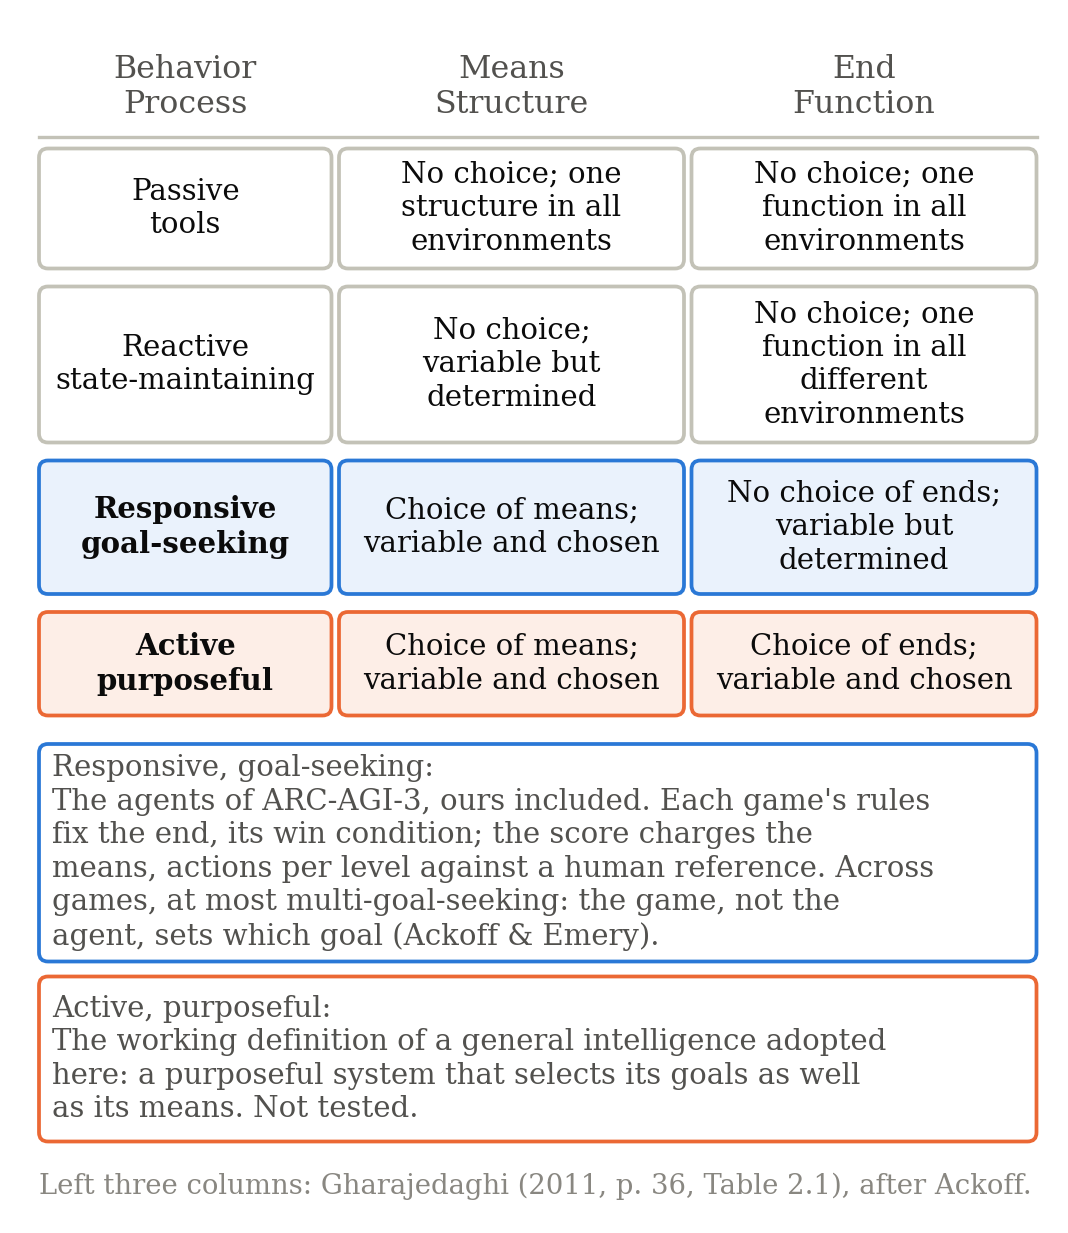
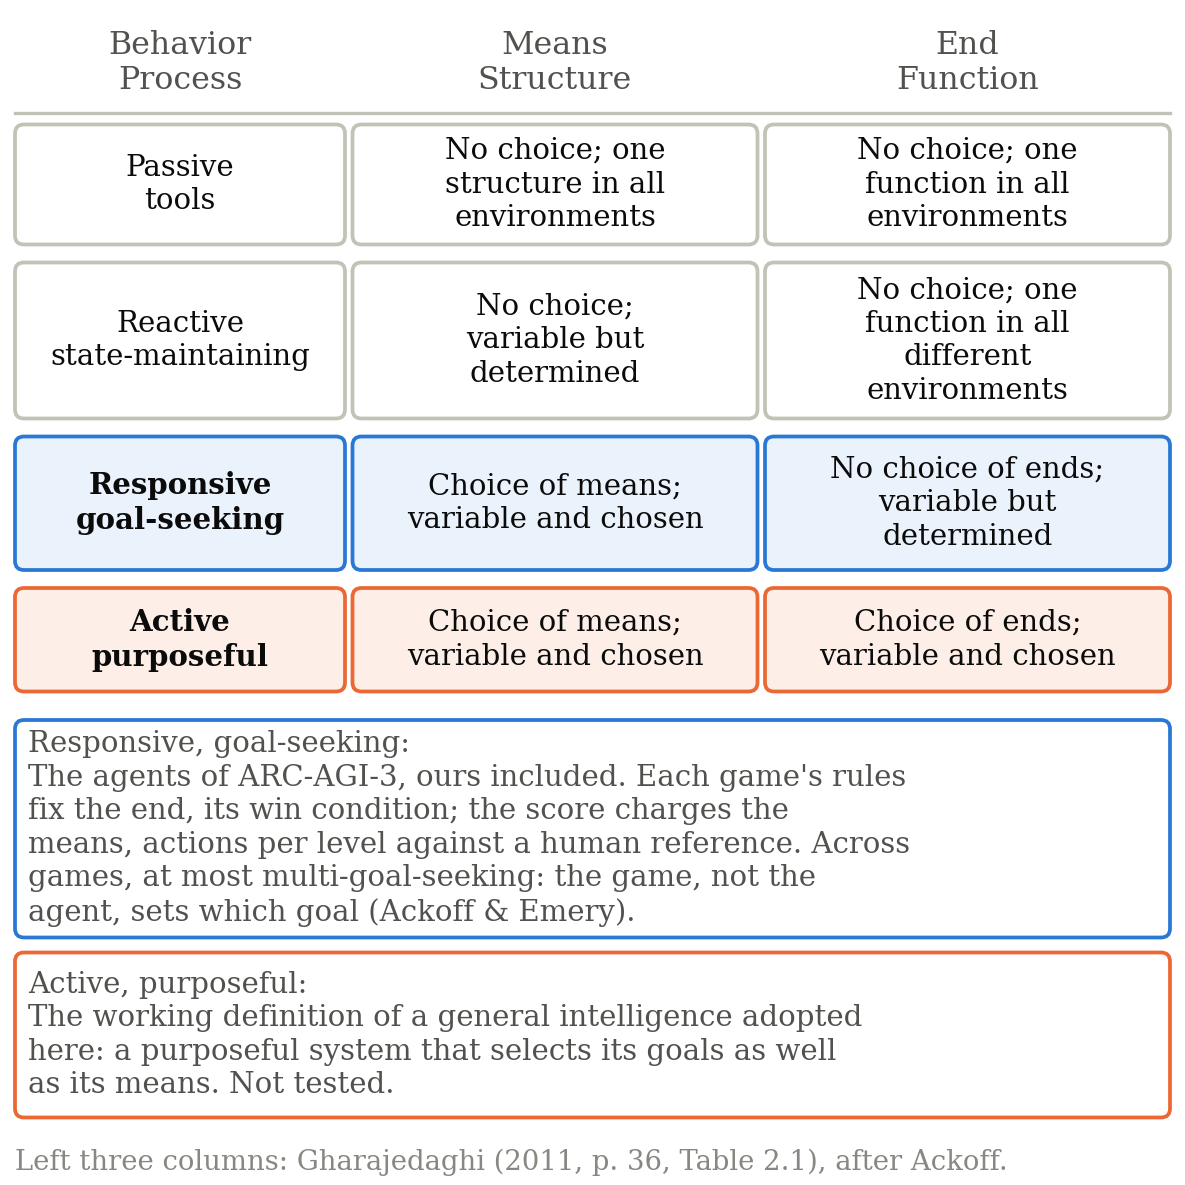
Project page and README: the three diagram images at one width and scale (the modes diagram laid out in rows); paper figures and gallery images unchanged

Changed region(s): [[0.0, 0.0312, 0.9888, 0.9992]]

diff --git a/figures/make_diagrams.py b/figures/make_diagrams.py
@@ -187,12 +187,12 @@ def canvas(w, h, xmax, ymax, x0=-0.1, y0=-0.1):
     return fig, ax
 
 
-def save_png(fig, name, tight):
+def save_png(fig, name, tight, dpi=200):
     assert not OVER, OVER
     if tight:
         fig.savefig(name, dpi=300, bbox_inches="tight", pad_inches=0.08, metadata={"Software": None})
     else:
-        fig.savefig(name, dpi=200, metadata={"Software": None})
+        fig.savefig(name, dpi=dpi, metadata={"Software": None})
     plt.close(fig)
 
 
@@ -270,26 +270,46 @@ def gallery_modes():
     save_png(fig, "gallery-diagram-2b-modes.png", tight=False)
 
 
+PAGE_W = 7.9   # data units (IN inches each): one canvas width for the three page images, so the column shows them at one scale
+
+
 def page_classification():
-    cols = [(0.0, 1.95), (2.0, 2.3), (4.35, 2.3)]
-    fig, ax = canvas(IN * 6.8, IN * 7.9, 6.8, 7.9)
-    y = classification_table(ax, cols, [0.86, 1.1, 0.95, 0.75], 7.0, NOTES_WIDE, below=(0.0, 6.65, [1.45, 1.1]))
+    cols = [(0.0, 2.2), (2.25, 2.7), (5.0, 2.7)]
+    fig, ax = canvas(IN * PAGE_W, IN * 7.9, PAGE_W, 7.9)
+    y = classification_table(ax, cols, [0.86, 1.1, 0.95, 0.75], 7.0, NOTES_WIDE, below=(0.0, 7.7, [1.45, 1.1]))
     ax.text(0, y - 0.35, SOURCE, fontsize=6.6, color=MUTED)
-    save_png(fig, "diagram-behavioral-classification.png", tight=True)
+    save_png(fig, "diagram-behavioral-classification.png", tight=False, dpi=300)
 
 
 def page_certificate():
-    fig, ax = canvas(IN * 7.7, IN * 7.3, 7.7, 7.3, y0=-0.1)
-    ax.text(0, 6.9, "A. No-effect certificate (Section 3.2)", fontsize=8.4, color=INK, va="center")
+    fig, ax = canvas(IN * PAGE_W, IN * 6.95, PAGE_W, 6.95, y0=0.55)
+    ax.text(0, 7.2, "A. No-effect certificate (Section 3.2)", fontsize=8.4, color=INK, va="center")
     panel_certificate(ax)
-    save_png(fig, "diagram-certificate.png", tight=True)
+    save_png(fig, "diagram-certificate.png", tight=False, dpi=300)
 
 
 def page_modes():
-    fig, ax = canvas(IN * 4.9, IN * 7.7, 4.9, 7.7, y0=-0.4)
-    ax.text(0, 7.15, "B. Where K acts (Sections 3.1 and 5)", fontsize=8.4, color=INK, va="center")
-    panel_modes(ax, x=0.0)
-    save_png(fig, "diagram-modes.png", tight=True)
+    """The three modes as rows: title and note on the left, the agent, K, and the game on the right."""
+    fig, ax = canvas(IN * PAGE_W, IN * 6.0, PAGE_W, 6.0)
+    ax.text(0, 5.65, "B. Where K acts (Sections 3.1 and 5)", fontsize=8.4, color=INK, va="center")
+    BX, GX = 3.75, 6.45
+    for y, (title, note, kind) in zip((4.05, 2.25, 0.45), MODES):
+        ax.text(0, y + 1.0, title, fontsize=7.4, color=INK, weight="bold", va="center")
+        ax.text(0, y + 0.45, note, fontsize=6.6, color=INK2, va="center", linespacing=1.2)
+        box(ax, BX, y + 0.7, 1.5, 0.45, "LLM agent", fc=BLUE_BG, ec=BLUE)
+        box(ax, BX, y + 0.0, 1.5, 0.45, "K", fc=ORANGE_BG, ec=ORANGE)
+        box(ax, GX, y + 0.0, 1.25, 1.15, "game")
+        arrow(ax, (BX + 1.5, y + 0.92), (GX, y + 0.92), color=BLUE)
+        if kind == "solid":
+            arrow(ax, (BX + 1.5, y + 0.22), (GX, y + 0.22), color=ORANGE)
+        elif kind == "dashed":
+            arrow(ax, (BX + 1.5, y + 0.22), (GX, y + 0.22), color=ORANGE, ls="--")
+        else:
+            arrow(ax, (GX, y + 0.22), (BX + 1.5, y + 0.22), color=MUTED, lw=0.8)
+            ax.text((BX + 1.5 + GX) / 2, y + 0.12, "observes", fontsize=6.2, color=MUTED, ha="center", va="top")
+            arrow(ax, (BX + 0.75, y + 0.45), (BX + 0.75, y + 0.7), color=ORANGE, ls=":", lw=1.2)
+    ax.text(0, 0.0, CONTROL, fontsize=6.4, color=MUTED)
+    save_png(fig, "diagram-modes.png", tight=False, dpi=300)
 
 
 if __name__ == "__main__":
